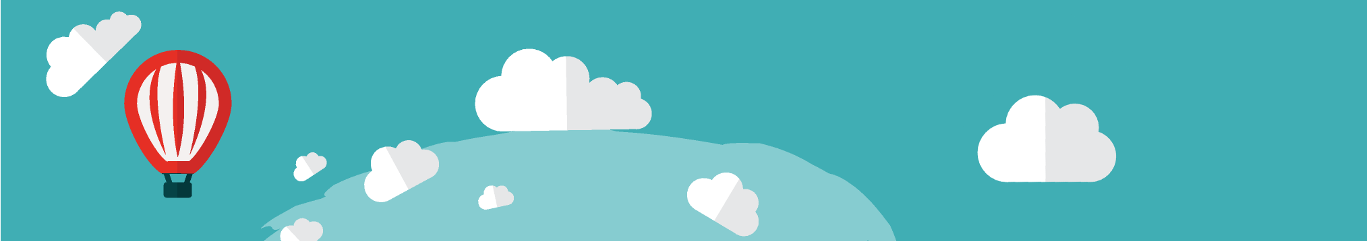
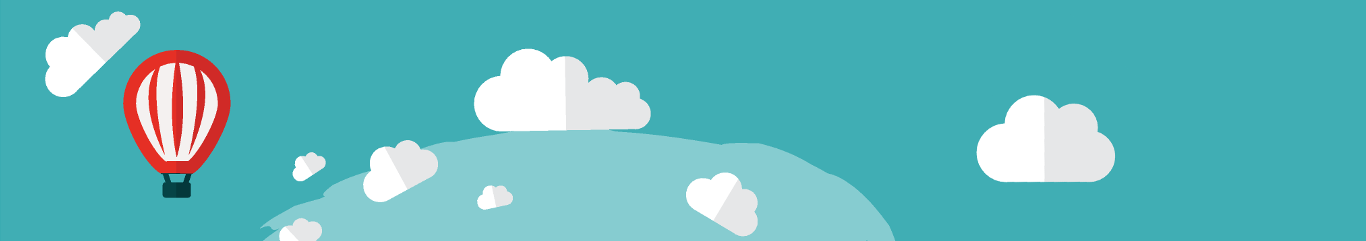
Fix white strip in background image.

Changed region(s): [[0.0922, 0.2614, 0.1537, 0.639], [0.4305, 0.3195, 0.4612, 0.3485], [0.123, 0.7261, 0.1537, 0.7552]]

diff --git a/version.php b/version.php
@@ -28,11 +28,11 @@
 
 defined('MOODLE_INTERNAL') || die;
 
-$plugin->version   = 2015032600;
+$plugin->version   = 2015032601;  // Note: Must never be greater than M2.8 first version of 2015040200.
 $plugin->requires  = 2014051200.00; // 2.7 (Build: 20140512).
 $plugin->component = 'theme_campus';
-$plugin->maturity = MATURITY_BETA;
-$plugin->release = '2.7.0.41';
+$plugin->maturity = MATURITY_STABLE;
+$plugin->release = '2.7.1';
 $plugin->dependencies = array(
     'theme_bootstrapbase'  => 2014051200
 );

diff --git a/Readme.md b/Readme.md
@@ -51,6 +51,10 @@ Uninstallation
 
 Version Information
 ===================
+ 2nd April 2015 - Version 2.7.1.
+  1. Stable.
+  2. Fix white strip in background image.
+
 26th March 2015 - Version 2.7.0.41.
   1. Adjust 'showpageheading' setting - task #540.
 
